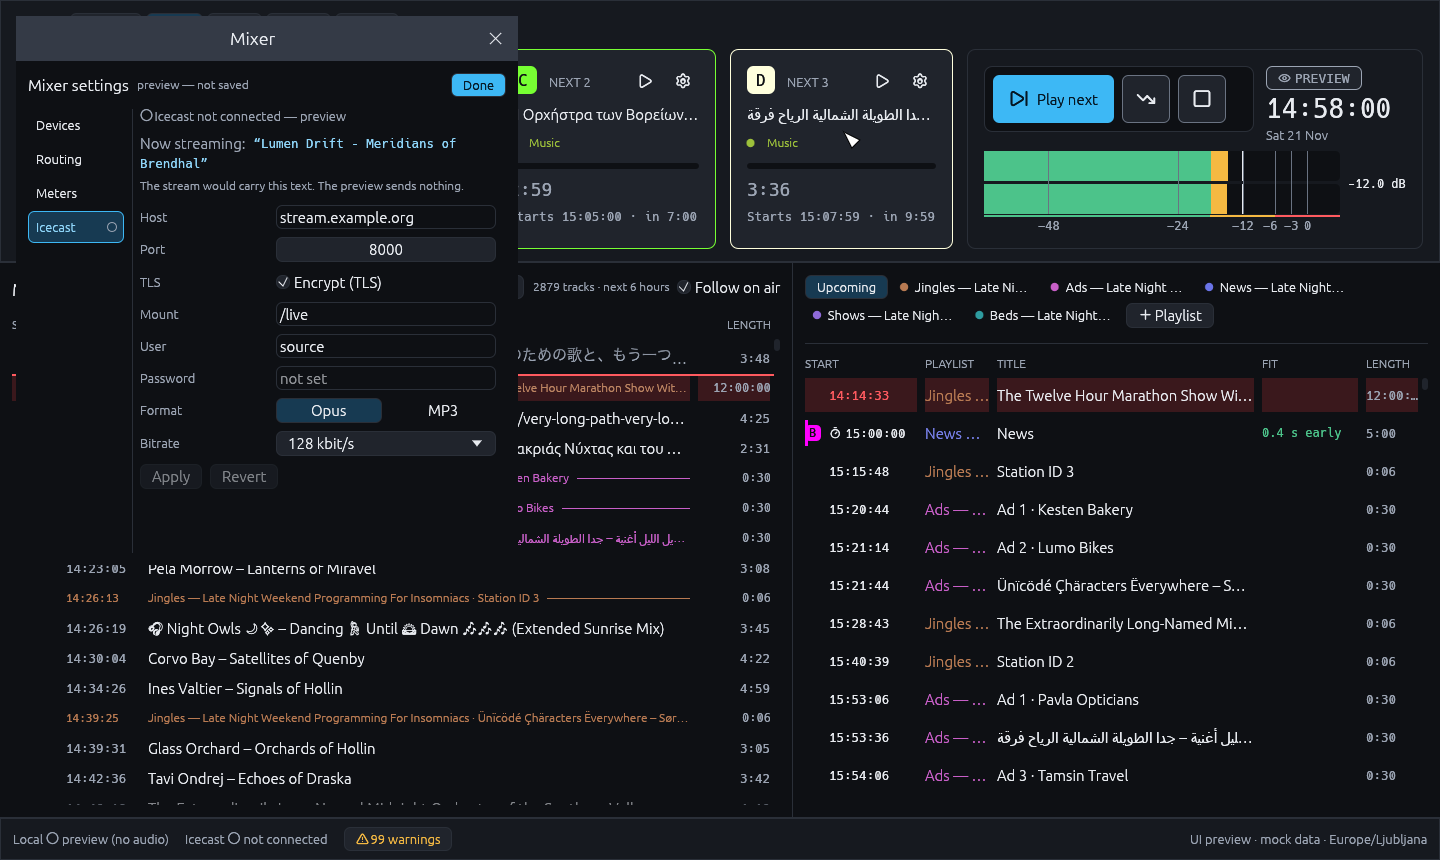
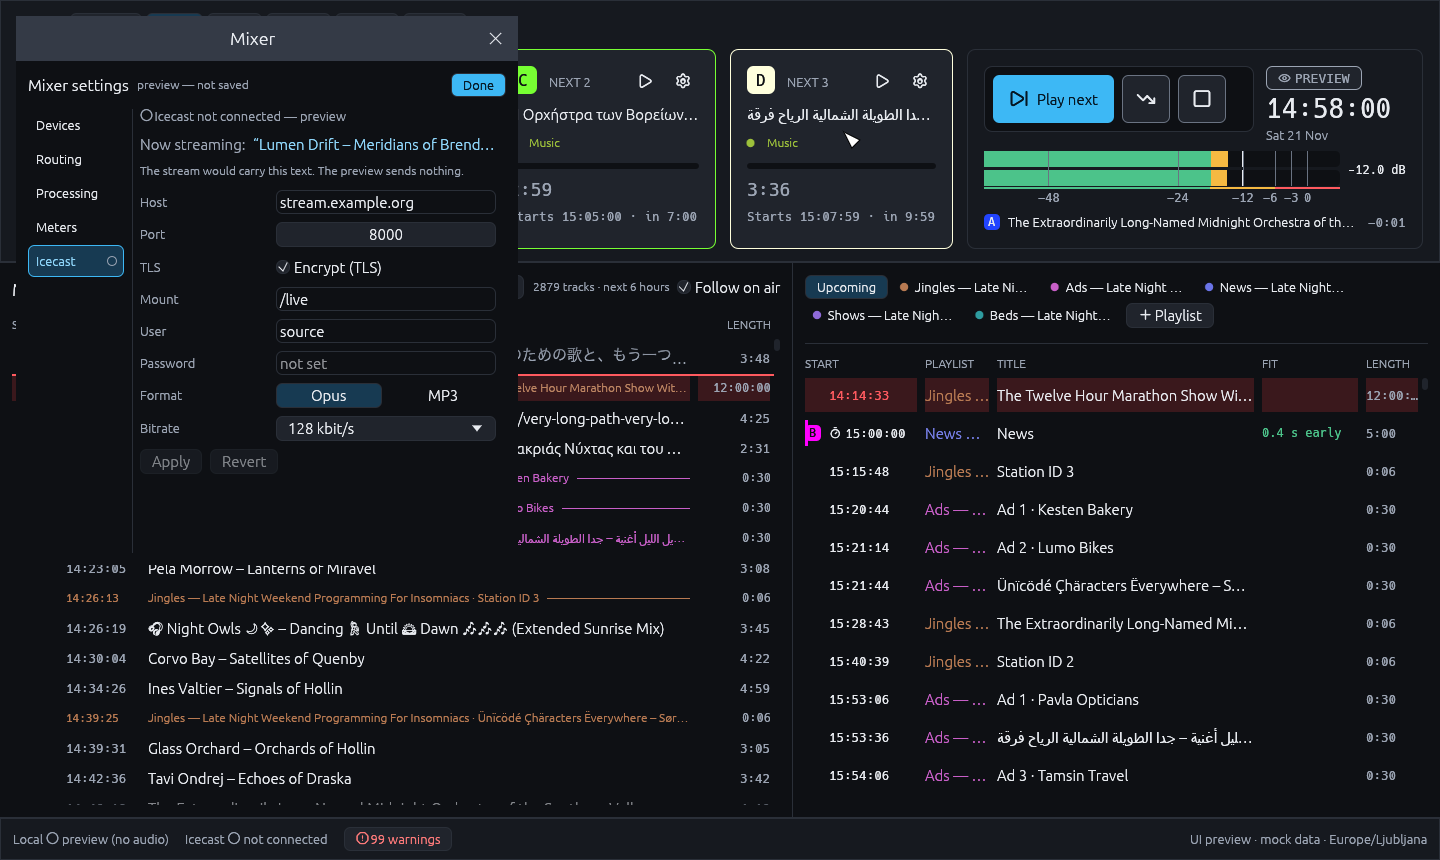
Mixer window fits the settings page and gets its size back on Done
When the Mixer window switches to the settings page, the native window
now resizes to the page: the tab rail plus the form at its field width,
and the height of the page, capped at the work area (the form scrolls
when it does not fit). It keeps the size from before the page and goes
back to exactly that size on Done or Escape. If a person resizes the
window while the page shows, it keeps their size until Done and does not
store it as the window's size. This uses the existing tool-window sizing
in windows.rs: the page reports the size it needs each frame.

Done now sits at the right end of the header row in a window with a
definite size. "Now streaming" stays on one line in the deck-title font,
ends in an ellipsis when long, and shows the full text in a tooltip.

diff --git a/crates/ui-egui/src/windows.rs b/crates/ui-egui/src/windows.rs
@@ -18,6 +18,10 @@ pub(crate) const SIZE_KEY: &str = "window_size";
 /// The temporary data that tells a settings section about its window.
 const USER_SIZED: &str = "tool_window_user_sized";
 const FIT_TARGET: &str = "tool_window_fit_target";
+/// The temporary data where a settings page puts its natural size each frame it draws.
+const PAGE_FIT: &str = "tool_window_page_fit";
+/// The temporary data that tells content whether its window has a definite size.
+const DEFINITE: &str = "tool_window_definite";
 
 /// A tool window that the deck strip can open and close.
 #[derive(Clone, Copy, Debug, PartialEq, Eq)]
@@ -121,6 +125,59 @@ struct Fit {
     measured: Option<std::time::Instant>,
     /// The size of the content in the last frame.
     content: Option<egui::Vec2>,
+    /// While a settings page shows: the size of the window before it.
+    page: Option<PageFit>,
+}
+
+/// The window size while a settings page shows in place of the window content.
+#[derive(Clone, Copy, Debug, PartialEq)]
+struct PageFit {
+    /// The size of the window before the page. Done brings it back.
+    before: egui::Vec2,
+    /// True after a person resized the window by hand while the page showed. The window
+    /// then keeps that size until the page closes.
+    dragged: bool,
+}
+
+/// What the window does in a frame, from the page state of the last frame and of this one.
+#[derive(Clone, Copy, Debug, PartialEq)]
+enum PageStep {
+    /// No page, before or now.
+    None,
+    /// The page opened: keep the size of the window before it.
+    Open(PageFit),
+    /// The page shows: fit it, unless a person resized the window.
+    Show(PageFit),
+    /// The page closed: go back to this size.
+    Restore(egui::Vec2),
+}
+
+fn page_step(last: Option<PageFit>, natural: Option<egui::Vec2>, now: egui::Vec2) -> PageStep {
+    match (last, natural) {
+        (None, None) => PageStep::None,
+        (None, Some(_)) => PageStep::Open(PageFit {
+            before: now,
+            dragged: false,
+        }),
+        (Some(p), Some(_)) => PageStep::Show(p),
+        (Some(p), None) => PageStep::Restore(p.before),
+    }
+}
+
+/// A settings page calls this each frame it draws, with the size that it needs. Its tool
+/// window then fits the page, and goes back to its old size when the page closes.
+pub(crate) fn page_fits(ctx: &egui::Context, natural: egui::Vec2) {
+    ctx.data_mut(|d| d.insert_temp(Id::new(PAGE_FIT), natural));
+}
+
+/// True when the content area of the window has a definite size: a native window, or a
+/// floating window that a person sized. Content may then fill the width. In a window that
+/// fits its content, content that fills the width would keep the window from shrinking.
+pub(crate) fn definite_width(ui: &egui::Ui) -> bool {
+    !ui.is_sizing_pass()
+        && ui
+            .ctx()
+            .data(|d| d.get_temp::<bool>(Id::new(DEFINITE)).unwrap_or(false))
 }
 
 /// A sizing pass measures the natural width of the content this often.
@@ -261,8 +318,10 @@ pub(crate) fn show(
     let min = egui::Vec2::from(w.min_size());
     let max = max_size(ctx, min);
     let stays = if ctx.embed_viewports() {
+        ctx.data_mut(|d| d.insert_temp(Id::new(DEFINITE), user.is_some()));
         floating(ctx, w, user, (min, max), t, &mut add)
     } else {
+        ctx.data_mut(|d| d.insert_temp(Id::new(DEFINITE), true));
         let (stays, c) = native(ctx, w, &mut open.fit[i], (min, max), t, &mut add);
         change = c.or(change);
         stays
@@ -270,7 +329,11 @@ pub(crate) fn show(
     if !stays {
         open.set(w, false);
     }
-    ctx.data_mut(|d| d.insert_temp(Id::new(USER_SIZED), false));
+    ctx.data_mut(|d| {
+        d.insert_temp(Id::new(USER_SIZED), false);
+        d.insert_temp(Id::new(DEFINITE), false);
+        d.remove_temp::<egui::Vec2>(Id::new(PAGE_FIT));
+    });
     change
 }
 
@@ -310,6 +373,16 @@ fn floating(
         }
     });
     is_open
+}
+
+/// Asks the window system for `size`, and waits for its answer.
+fn request(ctx: &egui::Context, fit: &mut Fit, size: egui::Vec2) {
+    let same = fit.seen.is_some_and(|s| !differs(s, size));
+    ctx.send_viewport_cmd(ViewportCommand::InnerSize(size));
+    fit.applied = Some(size);
+    // A request for the size that the window has already brings no change.
+    fit.pending = !same;
+    fit.waited = 0;
 }
 
 /// The native form: a viewport that asks for the size of its content. It returns false when
@@ -381,7 +454,22 @@ fn native(
                 content.x = content.x.min(natural);
             }
             let want = desired(w, content, margin, min, max);
-            if let Some(now) = ui.input(|i| i.viewport().inner_rect.map(|r| r.size())) {
+            // A settings page in place of the content: the window fits the page, and goes
+            // back to its old size when the page closes.
+            let natural = ui
+                .ctx()
+                .data_mut(|d| d.remove_temp::<egui::Vec2>(Id::new(PAGE_FIT)));
+            let size_now = ui.input(|i| i.viewport().inner_rect.map(|r| r.size()));
+            let current = size_now.or(fit.seen).unwrap_or(start);
+            match page_step(fit.page, natural, current) {
+                PageStep::Open(p) => fit.page = Some(p),
+                PageStep::Restore(before) => {
+                    fit.page = None;
+                    request(ui.ctx(), fit, before);
+                }
+                PageStep::None | PageStep::Show(_) => {}
+            }
+            if let Some(now) = size_now {
                 // A size that changes by itself to another size than the asked size is a
                 // resize by hand.
                 // While a request waits, the first change is its answer, even when the
@@ -396,21 +484,62 @@ fn native(
                         fit.pending = false;
                     }
                 } else if moved && fit.applied.is_some_and(|a| differs(a, now)) {
-                    fit.user = Some(now);
-                    change = Some(SizeChange::Manual([now.x, now.y]));
+                    if let Some(p) = &mut fit.page {
+                        // A resize by hand on the page holds until the page closes. It is
+                        // not the size of the window, so the settings do not keep it.
+                        p.dragged = true;
+                    } else {
+                        fit.user = Some(now);
+                        change = Some(SizeChange::Manual([now.x, now.y]));
+                    }
                 }
                 fit.seen = Some(now);
             }
-            if fit.user.is_none() && fit.applied.is_none_or(|a| differs(a, want)) {
-                let same = fit.seen.is_some_and(|s| !differs(s, want));
-                ui.ctx().send_viewport_cmd(ViewportCommand::InnerSize(want));
-                fit.applied = Some(want);
-                // A request for the size that the window has already brings no change.
-                fit.pending = !same;
-                fit.waited = 0;
+            match (fit.page, natural) {
+                (Some(p), Some(natural)) => {
+                    let page = desired(w, natural, margin, min, max);
+                    if !p.dragged && fit.applied.is_none_or(|a| differs(a, page)) {
+                        request(ui.ctx(), fit, page);
+                    }
+                }
+                _ => {
+                    if fit.user.is_none() && fit.applied.is_none_or(|a| differs(a, want)) {
+                        request(ui.ctx(), fit, want);
+                    }
+                }
             }
             ui.input(|i| i.viewport().close_requested())
         },
     );
     (!closed, change)
+}
+
+#[cfg(test)]
+mod tests {
+    use super::*;
+
+    #[test]
+    fn a_page_keeps_the_size_before_it_and_gives_it_back() {
+        let before = egui::vec2(1900.0, 600.0);
+        let page = egui::vec2(560.0, 480.0);
+        let PageStep::Open(open) = page_step(None, Some(page), before) else {
+            panic!("the page opens");
+        };
+        assert_eq!(open.before, before);
+        // A resize by hand while the page shows does not change the size to go back to.
+        let dragged = PageFit {
+            dragged: true,
+            ..open
+        };
+        let later = egui::vec2(800.0, 700.0);
+        assert_eq!(
+            page_step(Some(dragged), Some(page), later),
+            PageStep::Show(dragged)
+        );
+        assert_eq!(
+            page_step(Some(dragged), None, later),
+            PageStep::Restore(before)
+        );
+        assert_eq!(page_step(None, None, later), PageStep::None);
+    }
 }

diff --git a/crates/ui-egui/src/settings.rs b/crates/ui-egui/src/settings.rs
@@ -179,11 +179,26 @@ pub(crate) fn page(
     let field_w = form_field_w(ui.available_width() - size::SETTINGS_RAIL - space::L - bar);
     let form_w = size::SETTINGS_LABEL + space::M + field_w;
     let page_w = size::SETTINGS_RAIL + space::L + form_w + bar;
+    // The size that the page needs: its tool window fits it while the page shows.
+    let natural_w = size::SETTINGS_RAIL
+        + space::L
+        + size::SETTINGS_LABEL
+        + space::M
+        + size::SETTINGS_FIELD
+        + bar;
+    crate::windows::page_fits(&ctx, egui::vec2(natural_w, size::SETTINGS_PAGE_H));
+    // The header row runs to the right edge of a window with a definite size, so Done sits
+    // at its end. A window that fits its content keeps the header at the page width.
+    let header_w = if crate::windows::definite_width(ui) {
+        ui.available_width().max(page_w)
+    } else {
+        page_w
+    };
     ui.allocate_ui_with_layout(
-        egui::vec2(page_w, size::CONTROL_SM),
+        egui::vec2(header_w, size::CONTROL_SM),
         Layout::left_to_right(Align::Center),
         |ui| {
-            ui.set_width(page_w);
+            ui.set_width(header_w);
             ui.label(RichText::new(title).font(theme::text(theme::CARD)).strong());
             if preview {
                 let note = RichText::new(NOT_SAVED).font(theme::text(theme::CAPTION));

diff --git a/crates/ui-egui/src/mixer.rs b/crates/ui-egui/src/mixer.rs
@@ -771,10 +771,13 @@ fn icecast_tab(
             .font(theme::text(theme::LABEL))
             .color(status.ink),
     );
-    ui.horizontal_wrapped(|ui| {
+    // One line, in the font of the deck titles. A long title ends in "…", and the tooltip
+    // has all of it.
+    ui.horizontal(|ui| {
         ui.label(RichText::new("Now streaming:").color(t.text_muted));
-        let text = RichText::new(format!("“{streaming}”")).font(theme::mono(theme::CODE));
-        ui.label(text.color(t.accent_ink));
+        let full = format!("“{streaming}”");
+        let text = RichText::new(full.as_str()).font(theme::text(theme::BODY));
+        crate::widgets::truncated_label(ui, text.color(t.accent_ink)).on_hover_text(full);
     });
     let note = view.say(
         "The stream would carry this text. The preview sends nothing.",
